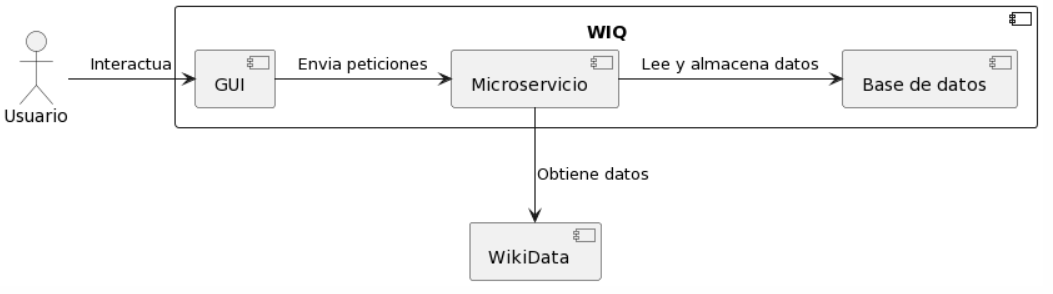
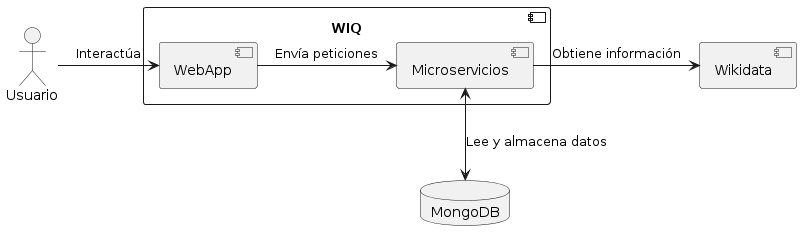
Updates

diff --git a/index.html b/index.html
@@ -499,24 +499,12 @@ body.book #toc,body.book #preamble,body.book h1.sect0,body.book .sect1>h2{page-b
 <h2 id="section-introduction-and-goals">1. Introducción y objetivos</h2>
 <div class="sectionbody">
 <div class="paragraph">
-<p>El proyecto WIQ es una iniciativa llevada a cabo en la Universidad de Oviedo, bajo la solicitud de la empresa de desarrollo de software HappySaw y contratada por RTVE con el propósito de desarrollar una versión web del concurso “Saber y Ganar.
-El equipo de desarrollo comprometido a materializar este proyecto está formado por</p>
-</div>
-<div class="ulist">
-<ul>
-<li>
-<p>Marina Seijo Gómez</p>
-</li>
-<li>
-<p>Rubén Pérez Dafonte</p>
-</li>
-<li>
-<p>David Muños Rio</p>
-</li>
-<li>
-<p>Ángela Roza Moren</p>
-</li>
-</ul>
+<p>El proyecto WIQ es una iniciativa llevada a cabo en la Universidad de Oviedo, bajo la solicitud de la empresa de desarrollo de software HappySaw y contratada por RTVE, con el propósito de desarrollar una versión web del concurso "Saber y Ganar".
+El equipo de desarrollo comprometido a materializar este proyecto está formado por
+* Marina Seijo Gómez
+* Rubén Pérez Dafonte
+* David Muños Rio
+* Ángela Roza Moren</p>
 </div>
 <div class="paragraph">
 <p>WIQ es una aplicación web que presentará un juego de preguntas y respuestas en el que los usuarios tendrán un tiempo limitado para seleccionar, entre diferentes opciones, la respuesta correcta a una pregunta.</p>
@@ -529,7 +517,7 @@ El equipo de desarrollo comprometido a materializar este proyecto está formado 
 <p>Los usuarios deberán registrarse para poder jugar o bien iniciar sesión si ya se han registrado previamente.</p>
 </li>
 <li>
-<p>El sistema proporcionará preguntas de distintas temáticas junto con 4 posibles respuestas mediante el uso de Wiki Data. Las preguntas serán variadas.</p>
+<p>El sistema proporcionará preguntas de distintas temáticas junto con 4 posibles respuestas mediante el uso de Wikidata. Las preguntas serán variadas.</p>
 </li>
 <li>
 <p>El sistema guardará información sobre la participación de los usuarios ofreciendo un histórico de: número de juegos, preguntas acertadas/falladas, tiempo etc.</p>
@@ -605,12 +593,12 @@ El equipo de desarrollo comprometido a materializar este proyecto está formado 
 <tr>
 <td class="tableblock halign-left valign-top"><p class="tableblock">RTVE</p></td>
 <td class="tableblock halign-left valign-top"><p class="tableblock">Radiotelevisión Española</p></td>
-<td class="tableblock halign-left valign-top"><p class="tableblock">Solicitantes del servicio. Esperan que los requisitos exigidos sean completados satisfactoriamente</p></td>
+<td class="tableblock halign-left valign-top"><p class="tableblock">Solicitantes del servicio. Esperan que los requisitos exigidos sean completados satisfactoriamente.</p></td>
 </tr>
 <tr>
 <td class="tableblock halign-left valign-top"><p class="tableblock">Usuarios</p></td>
 <td class="tableblock halign-left valign-top"><p class="tableblock">Cualquier usuario de la aplicación</p></td>
-<td class="tableblock halign-left valign-top"><p class="tableblock">Serán quienes emplearán el servicio. Deberán encontrarlo entretenido y sencillo de usar</p></td>
+<td class="tableblock halign-left valign-top"><p class="tableblock">Serán quienes emplearán el servicio. Deberán encontrarlo entretenido y sencillo de usar.</p></td>
 </tr>
 </tbody>
 </table>
@@ -652,7 +640,7 @@ El equipo de desarrollo comprometido a materializar este proyecto está formado 
 </tr>
 <tr>
 <td class="tableblock halign-left valign-top"><p class="tableblock">Pruebas</p></td>
-<td class="tableblock halign-left valign-top"><p class="tableblock">Cobertura, Pruebas de aceptación (e2e), Pruebas de carga</p></td>
+<td class="tableblock halign-left valign-top"><p class="tableblock">Cobertura, Pruebas de aceptación (e2e), Pruebas de carga.</p></td>
 </tr>
 <tr>
 <td class="tableblock halign-left valign-top"><p class="tableblock">WikiData</p></td>
@@ -715,26 +703,26 @@ El equipo de desarrollo comprometido a materializar este proyecto está formado 
 <tr>
 <td class="tableblock halign-left valign-top"><p class="tableblock">WIQ</p></td>
 <td class="tableblock halign-left valign-top"><p class="tableblock">La aplicación que gestiona el juego de preguntas. Utiliza los datos del usuario, Wikidata y MongoDB para generar y administrar el juego de preguntas y respuestas.</p></td>
-<td class="tableblock halign-left valign-top"><p class="tableblock">Datos de registro del usuario, datos de Wikidata basados en el tipo de pregunta que se quiere obtener, y búsquedas y registros de información de MongoDB relacionados con el sistema.</p></td>
+<td class="tableblock halign-left valign-top"><p class="tableblock">Datos de registro del usuario, datos de Wikidata basados en el tipo de pregunta que se quiere obtener,búsquedas y registros de información de MongoDB relacionados con el sistema.</p></td>
 <td class="tableblock halign-left valign-top"><p class="tableblock">Preguntas y respuestas generadas para el juego, historial de partidas y estadísticas del usuario.</p></td>
 </tr>
 <tr>
 <td class="tableblock halign-left valign-top"><p class="tableblock">User</p></td>
-<td class="tableblock halign-left valign-top"><p class="tableblock">Participa en el juego respondiendo preguntas y poseerá un historial de las partidas que jugó y sus estadísticas</p></td>
-<td class="tableblock halign-left valign-top"><p class="tableblock">Datos de registro</p></td>
-<td class="tableblock halign-left valign-top"><p class="tableblock">Historial de partidas y estadísticas</p></td>
+<td class="tableblock halign-left valign-top"><p class="tableblock">Participa en el juego respondiendo preguntas y poseerá un historial de las partidas que jugó y sus estadísticas.</p></td>
+<td class="tableblock halign-left valign-top"><p class="tableblock">Datos de registro.</p></td>
+<td class="tableblock halign-left valign-top"><p class="tableblock">Historial de partidas y estadísticas.</p></td>
 </tr>
 <tr>
 <td class="tableblock halign-left valign-top"><p class="tableblock">Wikidata</p></td>
-<td class="tableblock halign-left valign-top"><p class="tableblock">Proporcionará los datos necesarios para generar preguntas y respuestas de manera automática. El propósito es acceder a esta información y se extraer aquellos datos que puedan resultar útiles para generar dichas preguntas</p></td>
-<td class="tableblock halign-left valign-top"><p class="tableblock">Datos en base al tipo de pregunta que se quiere obtener</p></td>
-<td class="tableblock halign-left valign-top"><p class="tableblock">Datos en base a la consulta para generar las preguntas y respuestas</p></td>
+<td class="tableblock halign-left valign-top"><p class="tableblock">Proporcionará los datos necesarios para generar preguntas y respuestas de manera automática. El propósito es acceder a esta información y se extraer aquellos datos que puedan resultar útiles para generar dichas preguntas.</p></td>
+<td class="tableblock halign-left valign-top"><p class="tableblock">Datos en base al tipo de pregunta que se quiere obtener.</p></td>
+<td class="tableblock halign-left valign-top"><p class="tableblock">Datos en base a la consulta para generar las preguntas y respuestas.</p></td>
 </tr>
 <tr>
 <td class="tableblock halign-left valign-top"><p class="tableblock">Base de datos (MongoDB)</p></td>
-<td class="tableblock halign-left valign-top"><p class="tableblock">Se encargará de guardar información pertinente de WIQ</p></td>
-<td class="tableblock halign-left valign-top"><p class="tableblock">Realización de búsquedas y registro de información asociada relacionados con el sistema</p></td>
-<td class="tableblock halign-left valign-top"><p class="tableblock">Cualquier dato que haya sido almacenado perteneciente al sistema</p></td>
+<td class="tableblock halign-left valign-top"><p class="tableblock">Se encargará de guardar información pertinente de WIQ.</p></td>
+<td class="tableblock halign-left valign-top"><p class="tableblock">Realización de búsquedas y registro de información asociada relacionados con el sistema.</p></td>
+<td class="tableblock halign-left valign-top"><p class="tableblock">Cualquier dato que haya sido almacenado perteneciente al sistema.</p></td>
 </tr>
 </tbody>
 </table>
@@ -755,25 +743,25 @@ El equipo de desarrollo comprometido a materializar este proyecto está formado 
 <div class="title">Decisiones tecnologicas</div>
 <ul>
 <li>
-<p>React: biblioteca de JavaScript que usaremos para implementar la interfaz gráfica. Su principal ventaja es que utiliza un enfoque basado en componentes, lo que significa que las interfaces de usuario se dividen en componentes reutilizables que encapsulan el estado y el comportamiento.</p>
+<p>React: Biblioteca de JavaScript que usaremos para implementar la interfaz gráfica. Su principal ventaja es que utiliza un enfoque basado en componentes, lo que significa que las interfaces de usuario se dividen en componentes reutilizables que encapsulan el estado y el comportamiento.</p>
 </li>
 <li>
-<p>Docker: unidad de software que utilizaremos para ejecutar la aplicación de manera aislada de otros procesos del sistema mediante el concepto de imágenes, que son plantillas de solo lectura que contienen el sistema operativo, las herramientas, las bibliotecas y el código fuente de una aplicación.</p>
+<p>Docker: Unidad de software que utilizaremos para ejecutar la aplicación de manera aislada de otros procesos del sistema mediante el concepto de imágenes, que son plantillas de solo lectura que contienen el sistema operativo, las herramientas, las bibliotecas y el código fuente de una aplicación.</p>
 </li>
 <li>
-<p>JavaScript: lenguaje de programacion elegido por ser un lenguaje dinámico y flexible, muy común en la programacion web y multiplataforma.</p>
+<p>JavaScript: Lenguaje de programacion elegido por ser un lenguaje dinámico y flexible, muy común en la programacion web y multiplataforma.</p>
 </li>
 <li>
-<p>Node.js: entorno de ejecución de JavaScript elegido por su rendimiento y velocidad, lo que lo hace ideal para aplicaciones en tiempo real como juegos.</p>
+<p>Node.js: Entorno de ejecución de JavaScript elegido por su rendimiento y velocidad, lo que lo hace ideal para aplicaciones en tiempo real como juegos.</p>
 </li>
 <li>
-<p>Github Desktop: utilizado por algunos miembros del equipo como Github IDE.</p>
+<p>Github Desktop: Utilizado por algunos miembros del equipo como Github IDE.</p>
 </li>
 <li>
-<p>Wikidata: base de datos colaborativa y abierta que usaremos para extraer las preguntas para nuestro juego.</p>
+<p>Wikidata: Base de datos colaborativa y abierta que usaremos para extraer las preguntas para nuestro juego.</p>
 </li>
 <li>
-<p>MongoDB: base de datos no relacional, basada en un modelo de datos de documentos JSON, lo que nos facilitará la evolución del esquema sin requerir una estructura fija como en las bases de datos relacionales tradicionales.</p>
+<p>MongoDB: Base de datos no relacional, basada en un modelo de datos de documentos JSON, lo que nos facilitará la evolución del esquema sin requerir una estructura fija como en las bases de datos relacionales tradicionales.</p>
 </li>
 </ul>
 </div>
@@ -781,19 +769,19 @@ El equipo de desarrollo comprometido a materializar este proyecto está formado 
 <div class="title">¿Cómo se van a alcanzar los objetivos de calidad?</div>
 <ul>
 <li>
-<p>Usabilidad: nuestras interfaces serán intuitivas y fáciles de usar para cualquier persona gracias al framework React.</p>
+<p>Usabilidad: Nuestras interfaces serán intuitivas y fáciles de usar para cualquier persona gracias al framework React.</p>
 </li>
 <li>
-<p>Mantenibilidad: la aplicación sera facilmente adaptable gracias a nuestro enfoque por componentes, lo que nos permitirá tener un código poco acoplado y con mucha cohesión.</p>
+<p>Mantenibilidad: La aplicación sera facilmente adaptable gracias a nuestro enfoque por componentes, lo que nos permitirá tener un código poco acoplado y con mucha cohesión.</p>
 </li>
 <li>
-<p>Eficiencia: la conexión con la base de datos y Wikidata para extraer las preguntas será rápida para mantener la atención de los usuarios.</p>
+<p>Eficiencia: La conexión con la base de datos y Wikidata para extraer las preguntas será rápida para mantener la atención de los usuarios.</p>
 </li>
 <li>
-<p>Estabilidad: nuestra apicacion será resistente a caidas y fallos para poder permitir una buena experiencia de juego.</p>
+<p>Estabilidad: Nuestra aplicación será resistente a caidas y fallos para poder permitir una buena experiencia de juego.</p>
 </li>
 <li>
-<p>Testeabilidad: el equipo testeará la aplicacion manual y automaticamente mediante pruebas de obertura, pruebas de aceptación (e2e) y pruebas de carga.</p>
+<p>Testeabilidad: El equipo testeará la aplicacion manual y automaticamente mediante pruebas de obertura, pruebas de aceptación (e2e) y pruebas de carga.</p>
 </li>
 </ul>
 </div>
@@ -821,15 +809,15 @@ El equipo de desarrollo comprometido a materializar este proyecto está formado 
 <tbody>
 <tr>
 <td class="tableblock halign-left valign-top"><p class="tableblock">Usuario</p></td>
-<td class="tableblock halign-left valign-top"><p class="tableblock">Usuario que interactuará con la aplicación</p></td>
+<td class="tableblock halign-left valign-top"><p class="tableblock">Usuario que interactuará con la aplicación.</p></td>
 </tr>
 <tr>
 <td class="tableblock halign-left valign-top"><p class="tableblock">WIQ</p></td>
-<td class="tableblock halign-left valign-top"><p class="tableblock">Responsable de la gestión del juego</p></td>
+<td class="tableblock halign-left valign-top"><p class="tableblock">Responsable de la gestión del juego.</p></td>
 </tr>
 <tr>
 <td class="tableblock halign-left valign-top"><p class="tableblock">WikiData</p></td>
-<td class="tableblock halign-left valign-top"><p class="tableblock">Permite generar preguntas y respuestas</p></td>
+<td class="tableblock halign-left valign-top"><p class="tableblock">Permite generar preguntas y respuestas.</p></td>
 </tr>
 </tbody>
 </table>
@@ -851,27 +839,27 @@ El equipo de desarrollo comprometido a materializar este proyecto está formado 
 <tbody>
 <tr>
 <td class="tableblock halign-left valign-top"><p class="tableblock">Usuario</p></td>
-<td class="tableblock halign-left valign-top"><p class="tableblock">Usuario que interactuará con la aplicación</p></td>
+<td class="tableblock halign-left valign-top"><p class="tableblock">Usuario que interactuará con la aplicación.</p></td>
 </tr>
 <tr>
-<td class="tableblock halign-left valign-top"><p class="tableblock">GUI</p></td>
-<td class="tableblock halign-left valign-top"><p class="tableblock">Interfaz gráfica de usuario. Mostrará las preguntas junto con sus posibles respuestas</p></td>
+<td class="tableblock halign-left valign-top"><p class="tableblock">WebApp</p></td>
+<td class="tableblock halign-left valign-top"><p class="tableblock">Interfaz gráfica de usuario. Mostrará las preguntas junto con sus posibles respuestas.</p></td>
 </tr>
 <tr>
 <td class="tableblock halign-left valign-top"><p class="tableblock">Microservicios</p></td>
-<td class="tableblock halign-left valign-top"><p class="tableblock">Partes encargadas de distintas funcionalidades</p></td>
+<td class="tableblock halign-left valign-top"><p class="tableblock">Partes encargadas de distintas funcionalidades.</p></td>
 </tr>
 <tr>
-<td class="tableblock halign-left valign-top"><p class="tableblock">Base de datos</p></td>
-<td class="tableblock halign-left valign-top"><p class="tableblock">Almacenaje de información acerca de los usuarios y las preguntas generadas</p></td>
+<td class="tableblock halign-left valign-top"><p class="tableblock">MongoDB</p></td>
+<td class="tableblock halign-left valign-top"><p class="tableblock">Base de datos. Almacenaje de información acerca de los usuarios y las preguntas generadas.</p></td>
 </tr>
 <tr>
 <td class="tableblock halign-left valign-top"><p class="tableblock">WIQ</p></td>
-<td class="tableblock halign-left valign-top"><p class="tableblock">Responsable de la gestión de la aplicación. Engloba la GUI, los microservicios y la base de datos</p></td>
+<td class="tableblock halign-left valign-top"><p class="tableblock">Responsable de la gestión de la aplicación. Engloba la GUI, los microservicios y la base de datos.</p></td>
 </tr>
 <tr>
 <td class="tableblock halign-left valign-top"><p class="tableblock">WikiData</p></td>
-<td class="tableblock halign-left valign-top"><p class="tableblock">Permite generar preguntas y respuestas</p></td>
+<td class="tableblock halign-left valign-top"><p class="tableblock">Permite generar preguntas y respuestas.</p></td>
 </tr>
 </tbody>
 </table>
@@ -893,31 +881,43 @@ El equipo de desarrollo comprometido a materializar este proyecto está formado 
 <tbody>
 <tr>
 <td class="tableblock halign-left valign-top"><p class="tableblock">Usuario</p></td>
-<td class="tableblock halign-left valign-top"><p class="tableblock">Usuario que interactuará con la aplicación</p></td>
+<td class="tableblock halign-left valign-top"><p class="tableblock">Usuario que interactuará con la aplicación.</p></td>
 </tr>
 <tr>
-<td class="tableblock halign-left valign-top"><p class="tableblock">GUI</p></td>
-<td class="tableblock halign-left valign-top"><p class="tableblock">Interfaz gráfica de usuario. Mostrará las preguntas junto con sus posibles respuestas</p></td>
+<td class="tableblock halign-left valign-top"><p class="tableblock">WebApp</p></td>
+<td class="tableblock halign-left valign-top"><p class="tableblock">Interfaz gráfica de usuario. Mostrará las preguntas junto con sus posibles respuestas.</p></td>
 </tr>
 <tr>
-<td class="tableblock halign-left valign-top"><p class="tableblock">Servicio de registro de usuarios</p></td>
-<td class="tableblock halign-left valign-top"><p class="tableblock">Gestiona la creación de nuevos usuarios</p></td>
+<td class="tableblock halign-left valign-top"><p class="tableblock">UserService</p></td>
+<td class="tableblock halign-left valign-top"><p class="tableblock">Gestiona la creación de nuevos usuarios.</p></td>
 </tr>
 <tr>
-<td class="tableblock halign-left valign-top"><p class="tableblock">Servicio de autenticación</p></td>
-<td class="tableblock halign-left valign-top"><p class="tableblock">Gestiona la autenticación de los usuarios (Logging)</p></td>
+<td class="tableblock halign-left valign-top"><p class="tableblock">AuthService</p></td>
+<td class="tableblock halign-left valign-top"><p class="tableblock">Gestiona la autenticación de los usuarios (Inicio de sesión).</p></td>
 </tr>
 <tr>
-<td class="tableblock halign-left valign-top"><p class="tableblock">Servicio de generación de preguntas</p></td>
-<td class="tableblock halign-left valign-top"><p class="tableblock">Realiza consultas a WikiData para generar las preguntas y respuestas</p></td>
+<td class="tableblock halign-left valign-top"><p class="tableblock">QuestionGenerator</p></td>
+<td class="tableblock halign-left valign-top"><p class="tableblock">Realiza consultas a WikiData para generar las preguntas y respuestas.</p></td>
 </tr>
 <tr>
-<td class="tableblock halign-left valign-top"><p class="tableblock">Servicio de historial</p></td>
-<td class="tableblock halign-left valign-top"><p class="tableblock">Genera y consulta el historial de los usuarios</p></td>
+<td class="tableblock halign-left valign-top"><p class="tableblock">GameHistoryService</p></td>
+<td class="tableblock halign-left valign-top"><p class="tableblock">Genera y consulta el historial de los usuarios.</p></td>
 </tr>
 <tr>
-<td class="tableblock halign-left valign-top"><p class="tableblock">Base de datos</p></td>
-<td class="tableblock halign-left valign-top"><p class="tableblock">Almacenaje de información acerca de los usuarios y las preguntas generadas</p></td>
+<td class="tableblock halign-left valign-top"><p class="tableblock">PerfilService</p></td>
+<td class="tableblock halign-left valign-top"><p class="tableblock">Genera el perfil del usuario consultando su información en la base de datos.</p></td>
+</tr>
+<tr>
+<td class="tableblock halign-left valign-top"><p class="tableblock">AllQuestionService</p></td>
+<td class="tableblock halign-left valign-top"><p class="tableblock">Gestiona la API de preguntas.</p></td>
+</tr>
+<tr>
+<td class="tableblock halign-left valign-top"><p class="tableblock">AllUsersService</p></td>
+<td class="tableblock halign-left valign-top"><p class="tableblock">Gestiona la API de usuarios.</p></td>
+</tr>
+<tr>
+<td class="tableblock halign-left valign-top"><p class="tableblock">MongoDB</p></td>
+<td class="tableblock halign-left valign-top"><p class="tableblock">Base de datos. Almacenaje de información acerca de los usuarios y las preguntas generadas.</p></td>
 </tr>
 <tr>
 <td class="tableblock halign-left valign-top"><p class="tableblock">WIQ</p></td>
@@ -925,7 +925,7 @@ El equipo de desarrollo comprometido a materializar este proyecto está formado 
 </tr>
 <tr>
 <td class="tableblock halign-left valign-top"><p class="tableblock">WikiData</p></td>
-<td class="tableblock halign-left valign-top"><p class="tableblock">Permite generar preguntas y respuestas</p></td>
+<td class="tableblock halign-left valign-top"><p class="tableblock">Permite generar preguntas y respuestas.</p></td>
 </tr>
 </tbody>
 </table>
